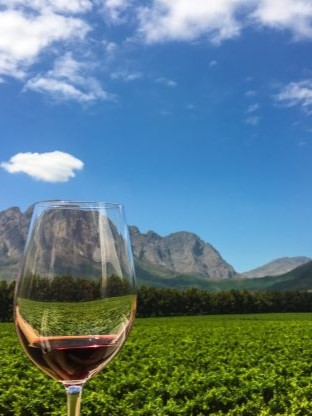
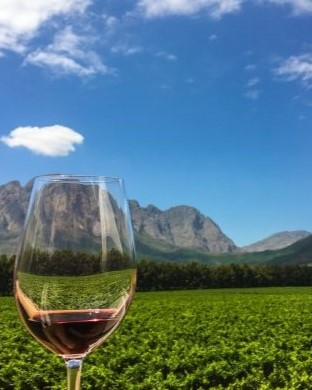
modified sign up page

diff --git a/src/Components/SignUp.jsx b/src/Components/SignUp.jsx
@@ -1,9 +1,15 @@
 import React from 'react'
-import ImgBg from '../Images/'
+import ImgBg from '../Images/wineImg.jpg'
 
 function SignUp() {
   return (
-    <div>SignUp</div>
+    <div className='w-screen h-screen flex'>
+      <div className='w-1/2 relative'>
+      <img src={ImgBg} alt="WineImg" className="w-full h-full object-cover" />
+      </div>
+
+    
+    </div>
   )
 }
 
